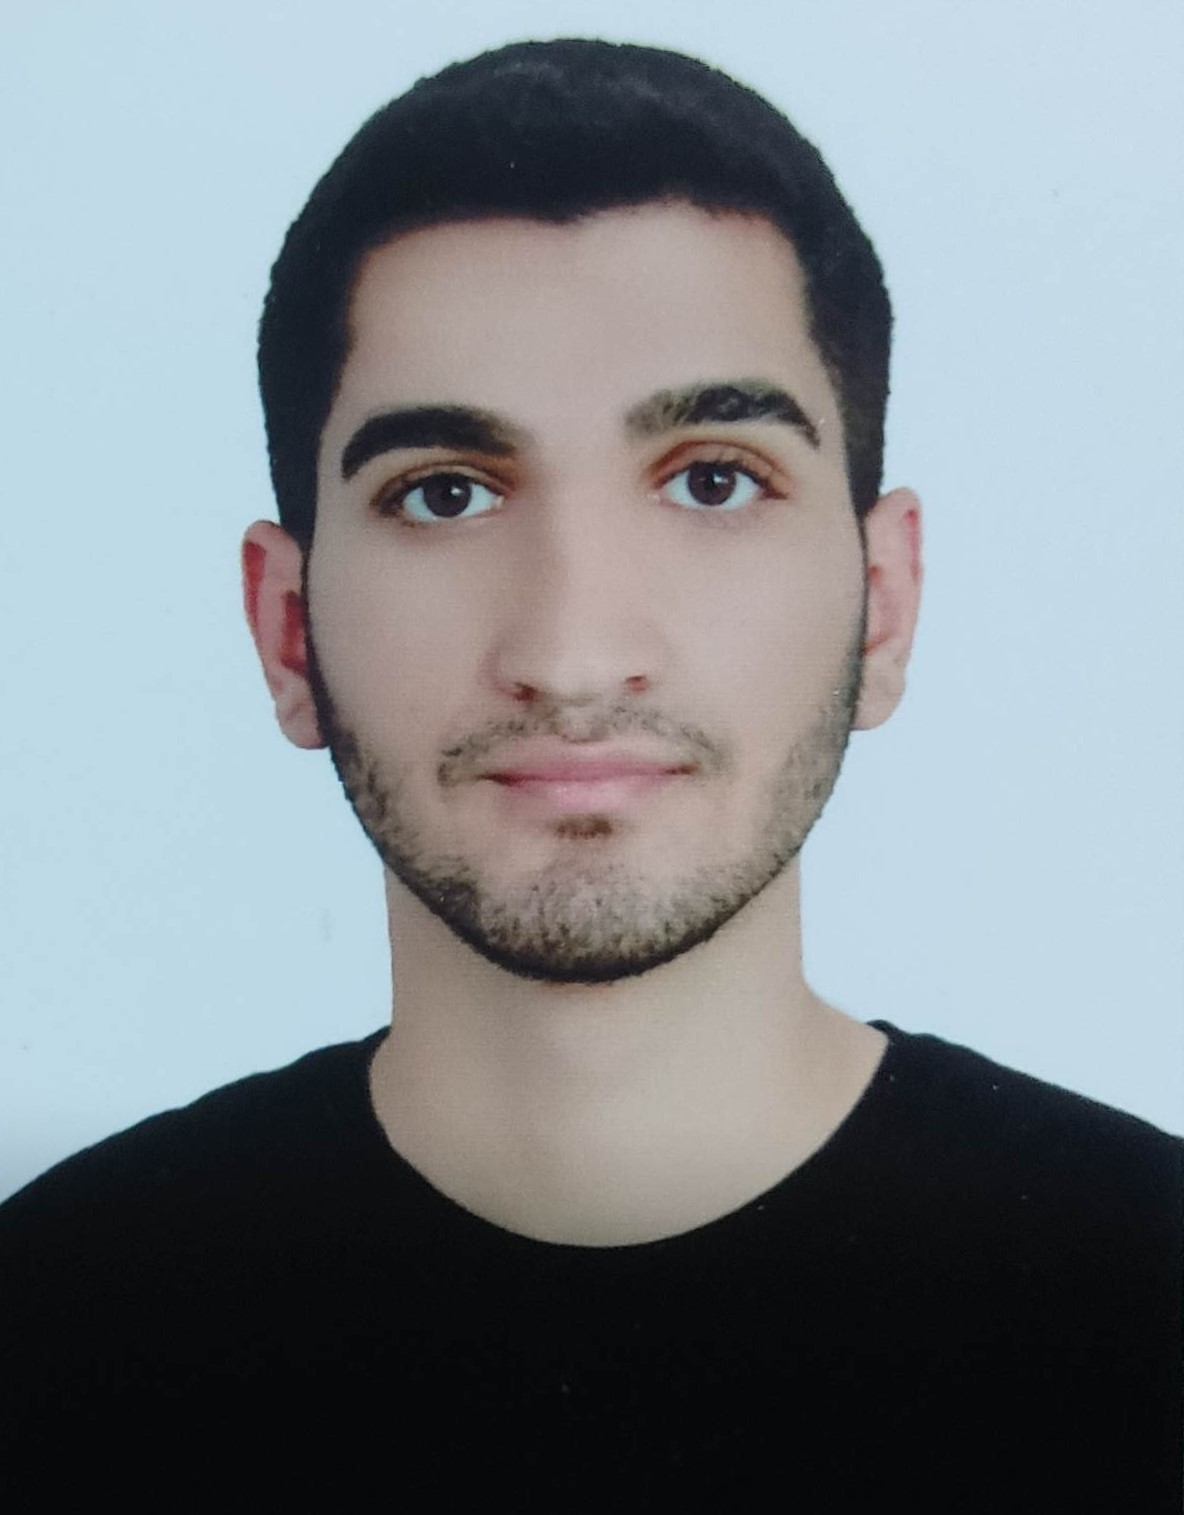
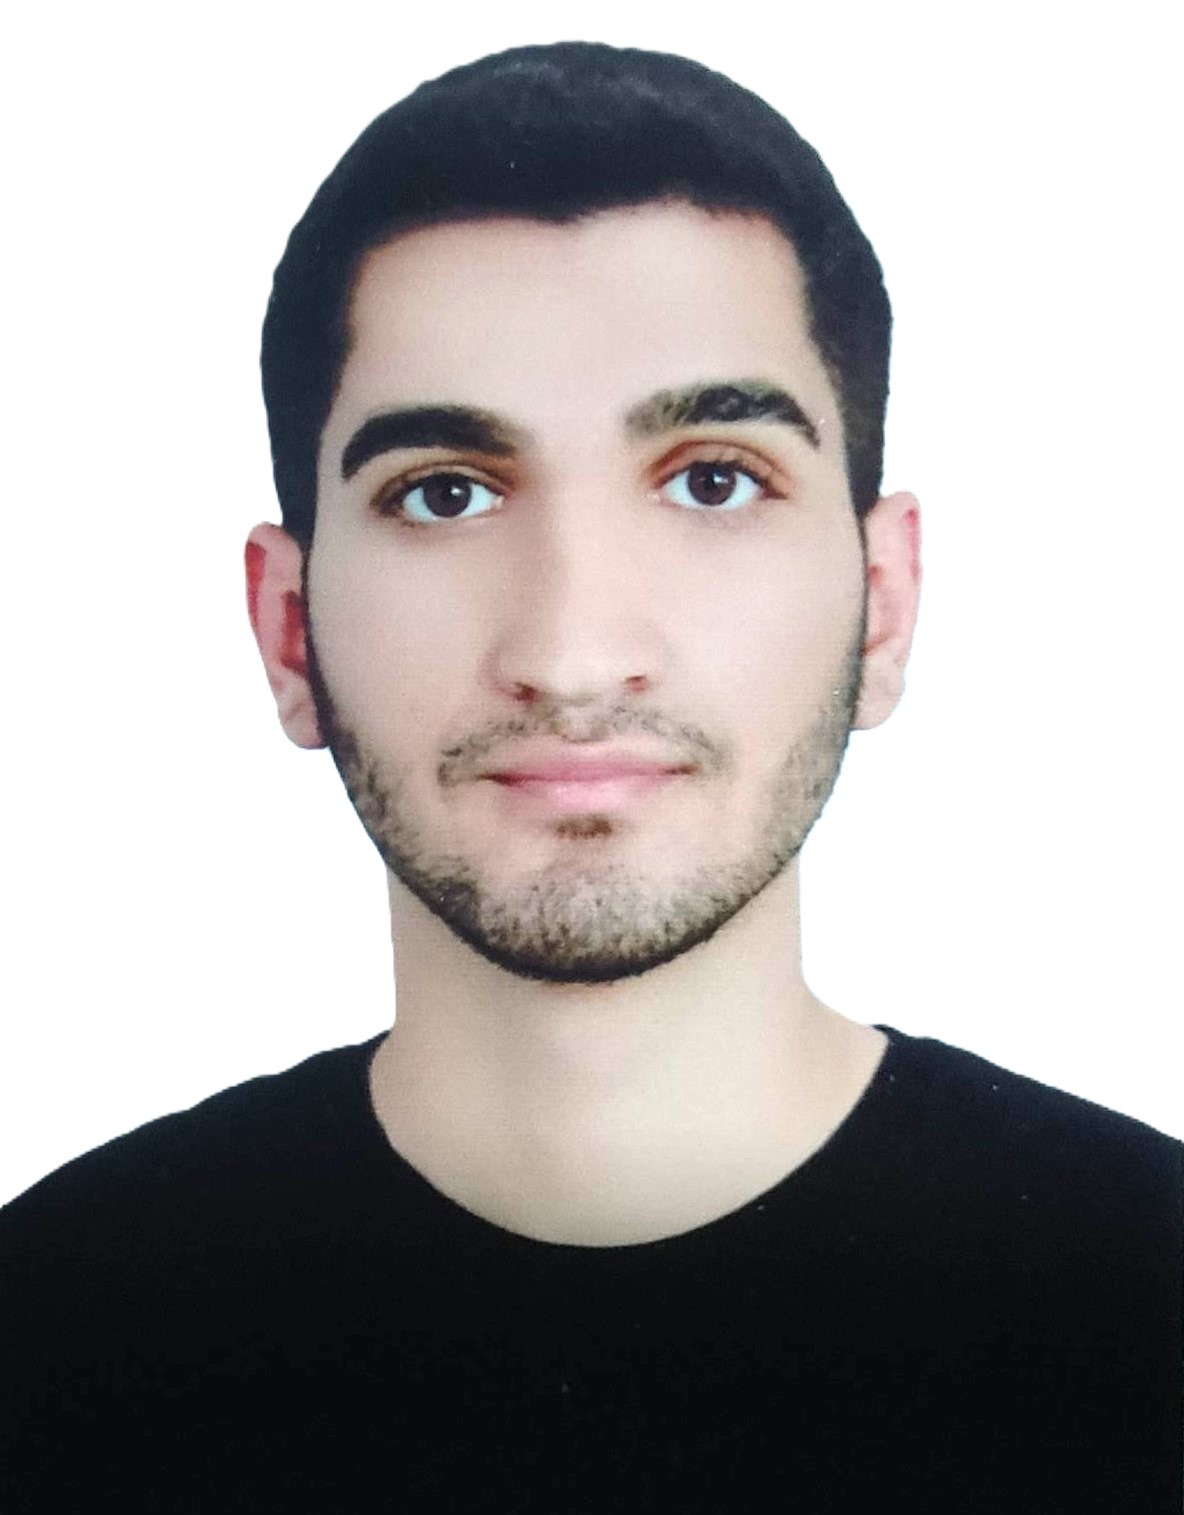
Refactor img , Create Projects

diff --git a/src/components/projects/ProjectCard.tsx b/src/components/projects/ProjectCard.tsx
@@ -1,0 +1,49 @@
+import { motion } from "framer-motion";
+import { Link } from "react-router-dom";
+interface PropsDetail {
+  title: string;
+  description: string;
+  link: string;
+  img: string;
+  src: string;
+}
+interface Props {
+  details: PropsDetail[];
+}
+const ProjectCard = ({ details }: Props) => {
+  return (
+    <>
+      {details.map((project, index) => (
+        <motion.div
+          className="relative w-full max-w-md mx-auto rounded-lg shadow-lg overflow-hidden border"
+          whileHover={{ scale: 1.05 }}
+          transition={{ type: "spring", stiffness: 300, damping: 20 }}
+          key={index}
+        >
+          <Link to={`/Projects/${project.src}`} rel="noopener noreferrer">
+            <motion.img
+              src={project.img}
+              alt={project.title}
+              className="w-full h-64 object-cover"
+              whileHover={{ scale: 1.1 }}
+              transition={{ duration: 0.3 }}
+            />
+            <div className="p-4 bg-white dark:bg-gray-900 text-gray-800 dark:text-gray-100">
+              <h3 className="text-xl font-bold mb-2">{project.title}</h3>
+              <p className="text-sm text-gray-600 dark:text-gray-400 mb-4">
+                {project.description}
+              </p>
+              <div className="absolute bottom-4 right-4">
+                <button className="bg-blue-500 hover:bg-blue-600 text-white py-2 px-4 rounded-lg shadow-md transition-all duration-300">
+                  View Project
+                </button>
+              </div>
+            </div>
+          </Link>
+        </motion.div>
+      ))}
+    </>
+  );
+};
+
+export default ProjectCard;

diff --git a/src/pages/Projects.tsx b/src/pages/Projects.tsx
@@ -1,7 +1,26 @@
 import Heading from "../components/Heading";
+import imgMovie from "./../assets/movie-hub.jpg";
+import imgGame from "./../assets/game-hub.jpg";
 import Seo from "../components/Seo";
+import ProjectCard from "../components/projects/ProjectCard";
 
 const Projects = () => {
+  const projects = [
+    {
+      title: "Movie Hub",
+      description: "A React-based movie browsing website.",
+      link: "/Projects/movie",
+      img: imgMovie,
+      src: 'movie-hub-cyan.vercel.app'
+    },
+    {
+      title: "Game Hub",
+      description: "A React-based movie browsing website.",
+      link: "/Projects/movie",
+      img: imgGame,
+      src: 'game-hub-three-iota-70.vercel.app'
+    },
+  ];
   return (
     <div className="w-full flex flex-col items-center justify-center py-8 bg-white">
       <Seo
@@ -10,6 +29,9 @@ const Projects = () => {
         canonical="projects"
       />
       <Heading text="My Projects" />
+      <div className="flex justify-between items-center gap-32 my-10">
+        <ProjectCard details={projects} />
+      </div>
     </div>
   );
 };

diff --git a/src/pages/IframeProjects.tsx b/src/pages/IframeProjects.tsx
@@ -1,0 +1,20 @@
+import { CgClose } from "react-icons/cg";
+import { Link, useParams } from "react-router-dom";
+
+const IframeProjects = () => {
+  const param = useParams();
+
+  return (
+    <div className="w-full flex flex-col items-center justify-center py-8 bg-white h-screen">
+      <div className="flex justify-between bg-[#00c49f] text-white rounded-xl p-2 self-end mx-12">
+        <Link className="" to={'/Projects'}><CgClose className="text-[20px]"/></Link>
+      </div>
+      <iframe
+        src={`https://${param.name}`}
+        className="w-[40%] h-full border-4 rounded-xl self-start mx-12 border-[#00c49f]"
+      />
+    </div>
+  );
+};
+
+export default IframeProjects;

diff --git a/src/router/routes.tsx b/src/router/routes.tsx
@@ -7,6 +7,7 @@ import Projects from "../pages/Projects";
 import Certificates from "../pages/Certificates";
 import Contact from "../pages/Contact";
 import CertificatesModal from "../components/Certificates/CertificatesModal";
+import IframeProjects from "../pages/IframeProjects";
 
 const router = createBrowserRouter([
     {
@@ -21,6 +22,7 @@ const router = createBrowserRouter([
         { path: "/Certificates", element: <Certificates /> },
         { path: "/Certificates/:name", element: <CertificatesModal /> },
         { path: "/Contact", element: <Contact /> },
+        { path: "/Projects/:name", element: <IframeProjects /> },
       ],
     },
   ]);

diff --git a/src/components/side-bar/SideBarLogo.tsx b/src/components/side-bar/SideBarLogo.tsx
@@ -1,10 +1,10 @@
 import { motion } from "framer-motion";
-import profile from "./../../assets/profile.jpg";
+import profile from "./../../assets/profile3.jpg";
 
 const SideBarLogo = () => {
   return (
     <motion.div
-      className="relative w-[150px] lg:w-[80%] mx-auto my-3 rounded-full border-4 border-[#00c49f] overflow-hidden shadow-lg"
+      className="relative w-[150px] h-[150px] mx-auto my-3 rounded-full border-4 border-[#00c49f] overflow-hidden shadow-lg"
       animate={{
         scale: [1, 1.05, 1], // انیمیشن تغییر مقیاس
       }}

diff --git a/src/components/side-bar/SideBarMenu.tsx b/src/components/side-bar/SideBarMenu.tsx
@@ -50,7 +50,7 @@ const SideBarMenu = () => {
   const { dispatch } = useContext(sideBarContext);
 
   return (
-    <ul className="flex flex-col gap-4 py-4 px-2">
+    <nav className="flex flex-col gap-4 py-4 px-2">
       {data.map((item) => (
         <Link
           to={item.path}
@@ -74,7 +74,7 @@ const SideBarMenu = () => {
           </li>
         </Link>
       ))}
-    </ul>
+    </nav>
   );
 };
 
